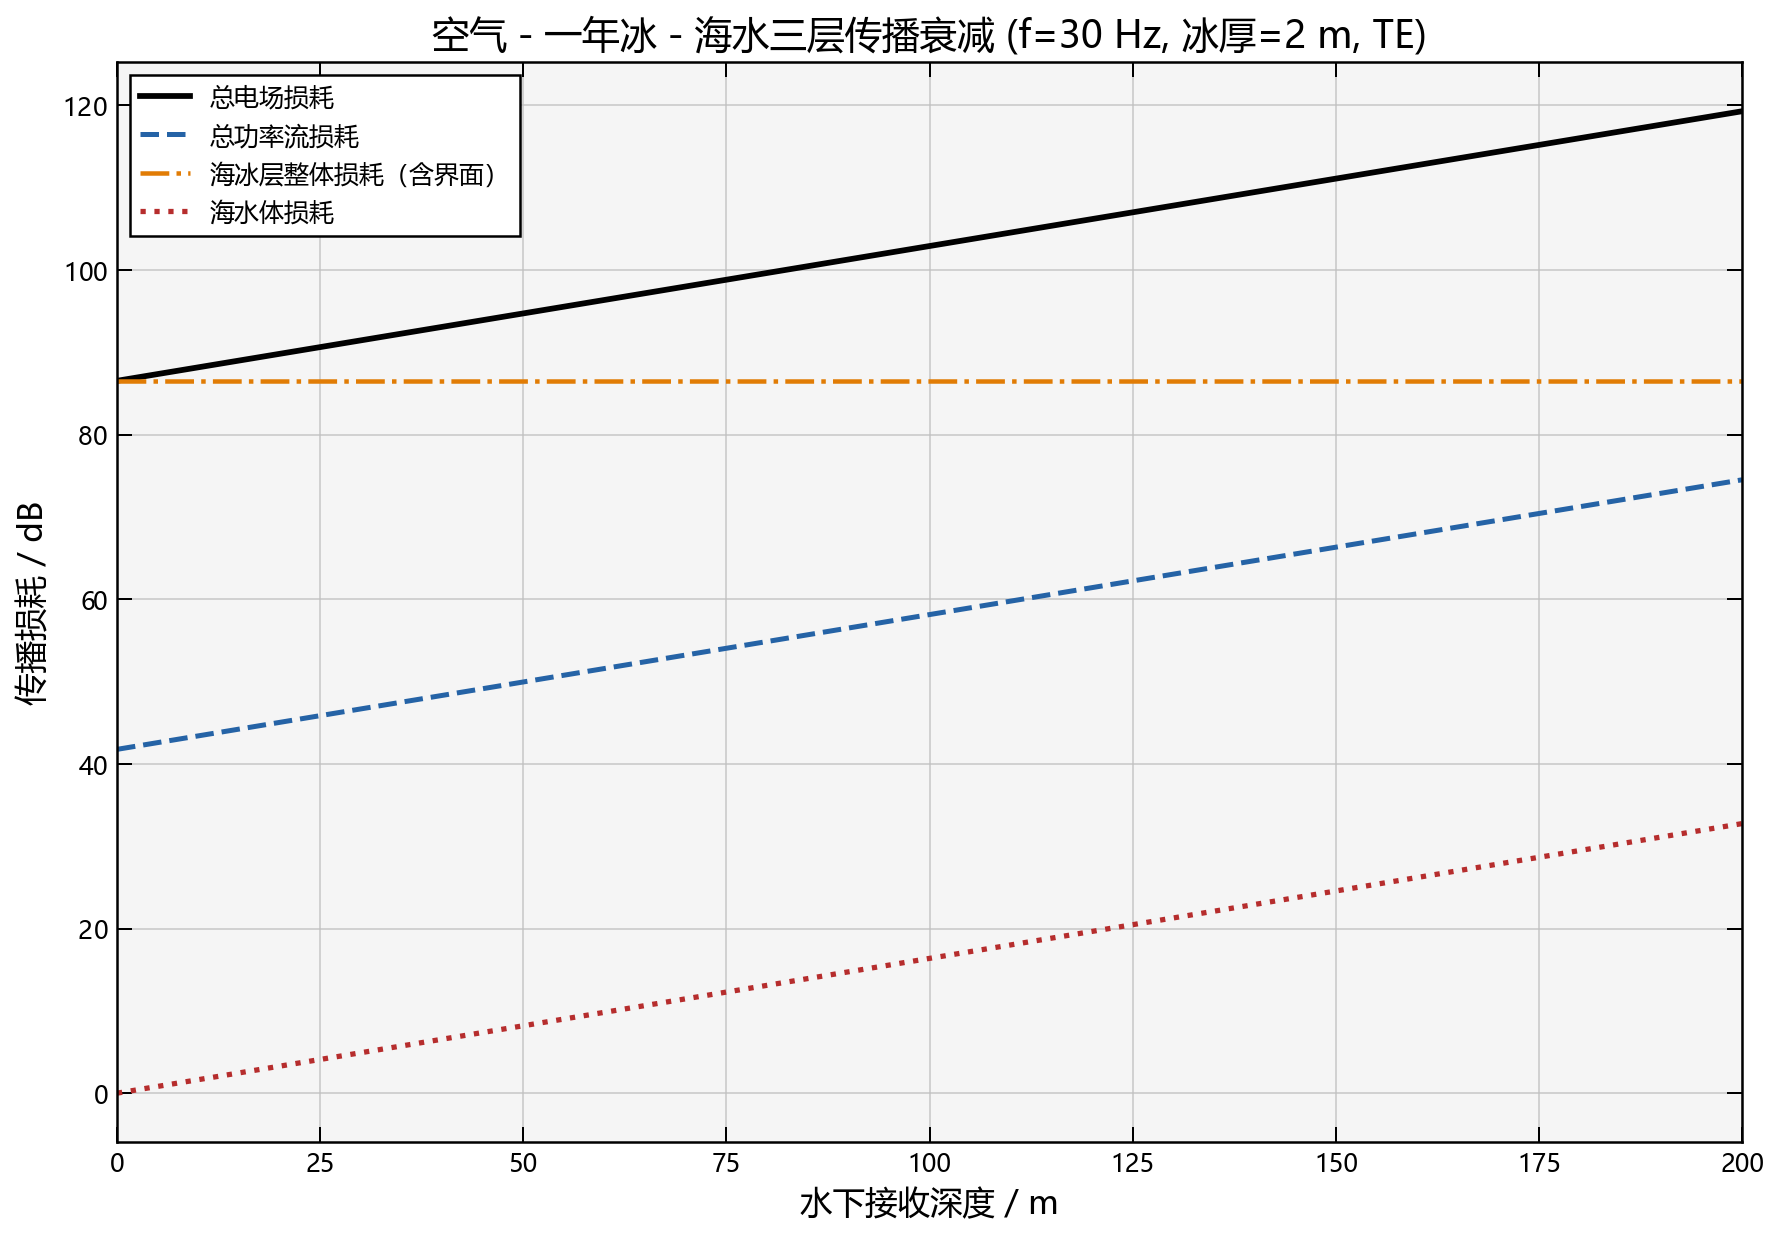
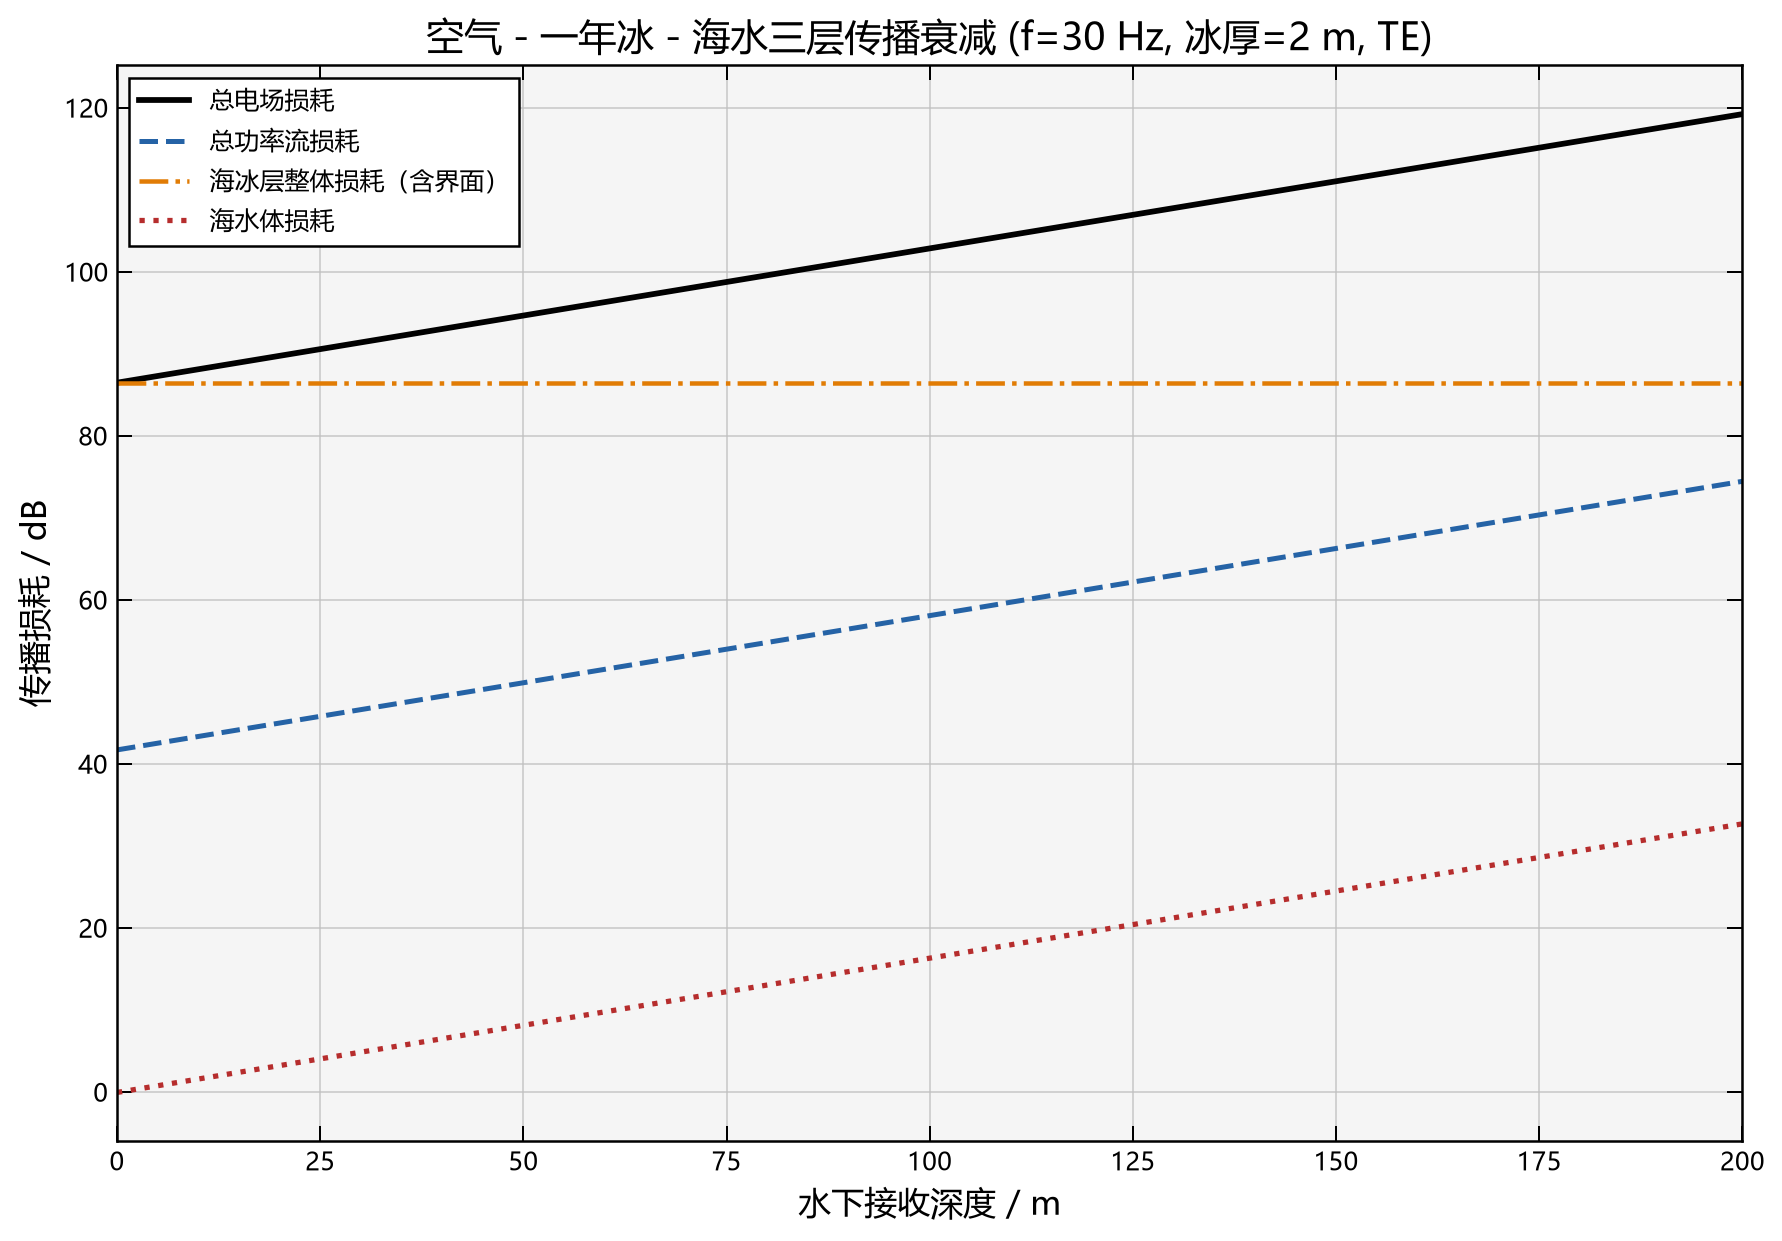
自己创建了一个趋肤深度的计算文件，进行练习

diff --git a/check_wave.py b/check_wave.py
@@ -1,0 +1,37 @@
+
+from air_ice_marine import (
+    calculate_wave_parameters,
+    AIR_PARAMS,
+    ICE_PARAMS,
+    SEA_PARAMS
+)
+
+frequency_hz = 30
+
+#这里是使用类似结构体的指向
+air_skin_depth = calculate_wave_parameters(
+    frequency_hz,
+    AIR_PARAMS["eps_r"],
+    AIR_PARAMS["mu_r"],
+    AIR_PARAMS["sigma_s_m"]
+)
+
+#这里是python特有的解包符号**相当于前面的把结构体里的东西全部解包出来
+ice_skin_depth = calculate_wave_parameters(
+    frequency_hz,
+    ICE_PARAMS["eps_r"],
+    ICE_PARAMS["mu_r"],
+    ICE_PARAMS["sigma_s_m"]
+)
+
+sea_skin_depth = calculate_wave_parameters(
+    frequency_hz,
+    SEA_PARAMS["eps_r"],
+    SEA_PARAMS["mu_r"],
+    SEA_PARAMS["sigma_s_m"]
+)
+
+print ("空气 skin_depth",air_skin_depth["skin_depth"])
+print ("冰 skin_depth",ice_skin_depth["skin_depth"])
+print ("海洋 skin_depth",sea_skin_depth["skin_depth"])
+
